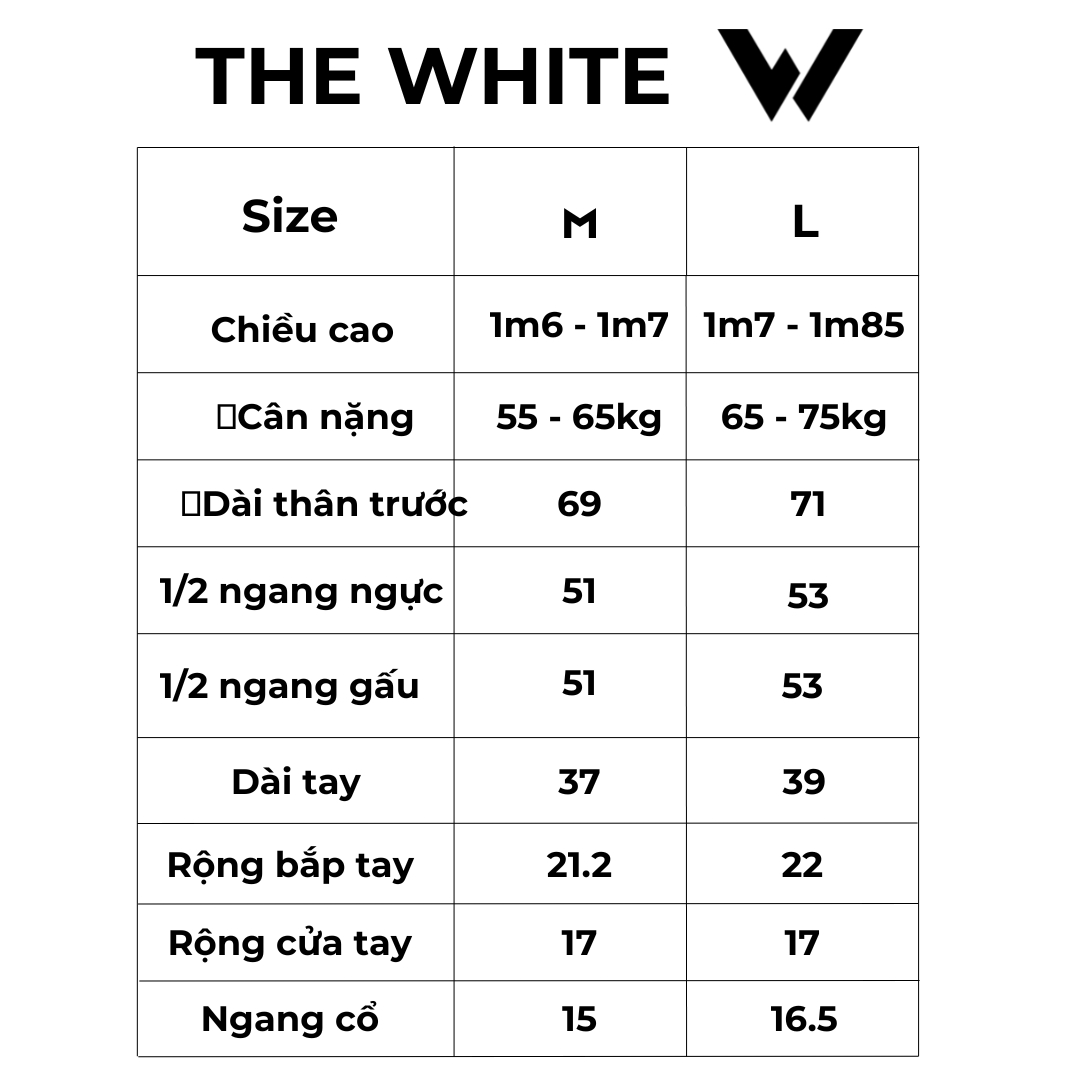
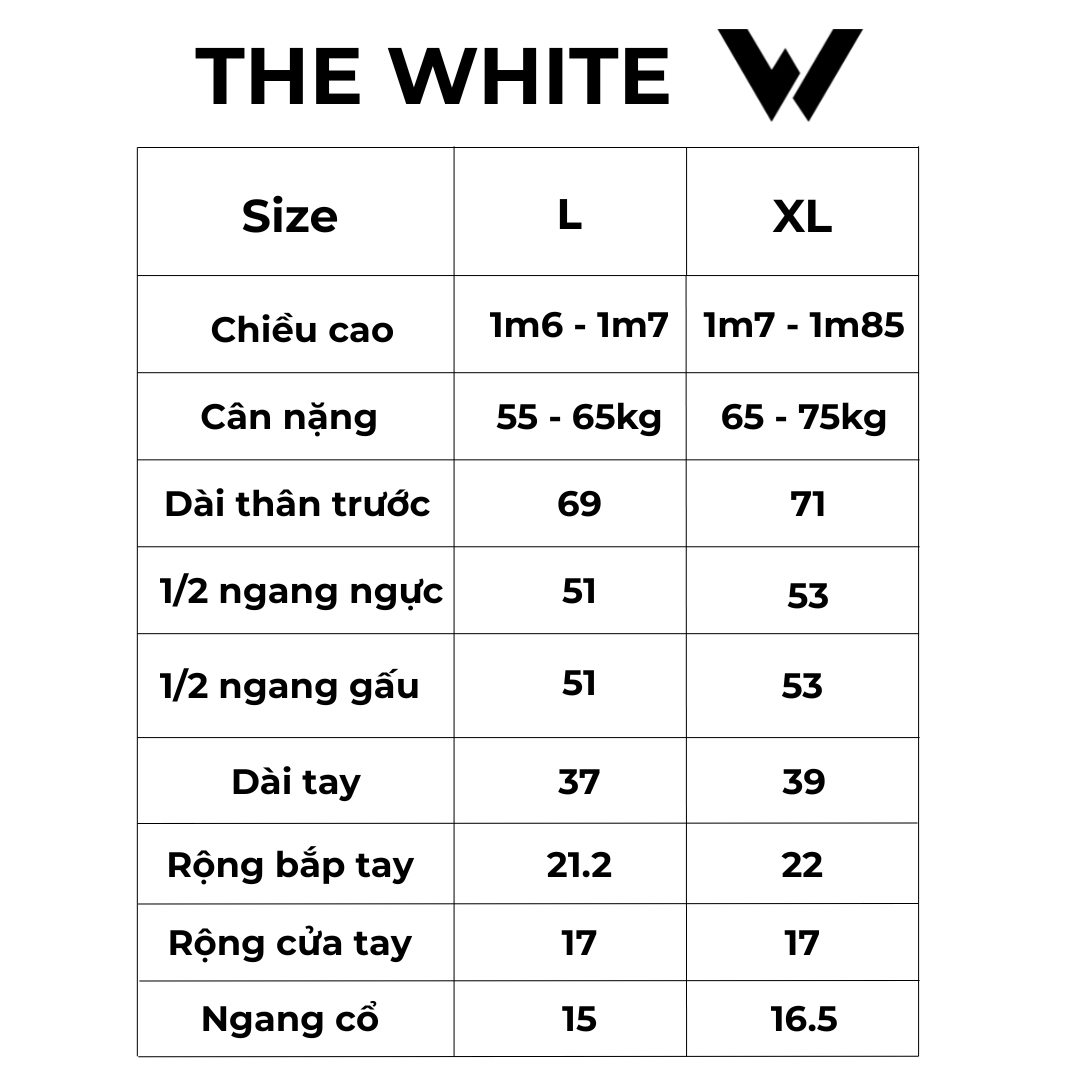
feat(sizing): real size chart measurements from Drive
Pulled 8 size-chart JPEGs from the brand's Drive folder and
extracted the actual flat-lay measurements into
ChatContext.sizeGuide (VI + EN) so the Wolfies chatbot + Smart
Size Picker give numeric answers from the real tables instead of
a placeholder paragraph.

- \`src/endpoints/seed/size-charts/\` now has all 8 product JPEGs
  (previously quan-2-lop.jpg → renamed to quan-short-2-lop.jpg to
  match the seed mapping).
- seed/size-charts.ts points at the corrected filename.
- seed/index.ts VI + EN sizeGuide defaults include per-product
  ranges: body length / chest / hem / neck for tops, inseam /
  waist / hip / thigh / leg-opening / hem for each short line,
  plus a height-based quick guide.
- Production ChatContext already patched via admin API so edits
  take effect without a re-seed.

NOTE to user: all four tops JPEGs (tank ho suon, tank sat nach,
thun tay dai, thun tay ngan) in Drive show the *same* table with
a sleeve-length (Dài tay) row, which only applies to long-sleeves.
Likely a copy-paste on the spreadsheet side — I used the shared
numbers for all tops. If you want unique rows per top line, send
corrected charts and I'll update sizeGuide.

diff --git a/src/endpoints/seed/index.ts b/src/endpoints/seed/index.ts
@@ -823,16 +823,33 @@ export const seed = async ({
           'THE WHITE là thương hiệu thời trang thể thao Việt Nam, thiết kế và may đo 100% tại Việt Nam. ' +
           'Chúng tôi tập trung vào chất liệu kỹ thuật, phom dáng tối giản, ôm nhẹ, phù hợp cho gym, chạy bộ, yoga và hoạt động hằng ngày.',
         sizeGuide:
-          'Tổng quan size (áo + quần):\n' +
-          '- Áo (Tanktop, Tay Ngắn, Tay Dài): thiết kế slim-fit, co giãn 4 chiều. Chỉ còn size XL — phù hợp chiều cao 1m70–1m85, cân nặng 62–82kg.\n' +
-          '- Quần Short 1 Lớp / Tính Năng / Vải Gân / 2 Lớp: size M (eo 72–80cm, hông 88–96cm, phù hợp 1m65–1m75) và size L (eo 80–88cm, hông 96–104cm, phù hợp 1m75–1m85).\n' +
+          'Bảng số đo chính thức THE WHITE (đo sản phẩm khi nằm phẳng, đơn vị cm, chiều cao cm/m, cân nặng kg). Với chất liệu Polyester + Spandex co giãn 4 chiều — giữa 2 size, chọn size nhỏ để ôm, size lớn để thoải mái.\n' +
+          '\n' +
+          '=== ÁO (Tanktop / Tay Ngắn / Tay Dài / Tank Hở Sườn) ===\n' +
+          'Chỉ còn size L và XL.\n' +
+          '- Size L: chiều cao 1m6–1m7, cân nặng 55–65 kg. Dài thân trước 69 · 1/2 ngang ngực 51 · 1/2 ngang gấu 51 · ngang cổ 15.\n' +
+          '- Size XL: chiều cao 1m7–1m85, cân nặng 65–75 kg. Dài thân trước 71 · 1/2 ngang ngực 53 · 1/2 ngang gấu 53 · ngang cổ 16.5.\n' +
+          '\n' +
+          '=== QUẦN VẢI GÂN ===\n' +
+          '- Size M: chiều cao 1m6–1m7, cân nặng 55–65 kg. Dài quần 45.5 · vòng eo 35.5 · vòng mông 18.5.\n' +
+          '- Size L: chiều cao 1m7–1m85, cân nặng 65–75 kg. Dài quần 47 · vòng eo 36.5 · vòng mông 19.\n' +
+          '\n' +
+          '=== QUẦN SHORT 2 LỚP ===\n' +
+          '- Size M: chiều cao 1m6–1m7, cân nặng 55–65 kg. Dài quần 38 · vòng eo 39.5 · vòng mông 30 · bo gấu 20.\n' +
+          '- Size L: chiều cao 1m7–1m85, cân nặng 65–75 kg. Dài quần 39.2 · vòng eo 39.5 · vòng mông 31.5 · bo gấu 20.5.\n' +
+          '\n' +
+          '=== QUẦN 1 LỚP TÚI CHÉO ===\n' +
+          '- Size M: chiều cao 1m6–1m7, cân nặng 55–65 kg. Dài quần 40 · vòng eo 68 · vòng mông 32.5.\n' +
+          '- Size L: chiều cao 1m7–1m85, cân nặng 65–75 kg. Dài quần 41.5 · vòng eo 72 · vòng mông 34.\n' +
+          '\n' +
+          '=== QUẦN 1 LỚP TÚI SAU (TÍNH NĂNG) ===\n' +
+          '- Size M: chiều cao 1m6–1m7, cân nặng 55–65 kg. Dài quần 43.5 · 1/2 eo 36 · vòng mông 53 · ngang đùi 34.5 · ngang ống 31.\n' +
+          '- Size L: chiều cao 1m7–1m85, cân nặng 65–75 kg. Dài quần 44.5 · 1/2 eo 38 · vòng mông 55 · ngang đùi 35.5 · ngang ống 32.\n' +
           '\n' +
           'Gợi ý nhanh theo chiều cao:\n' +
-          '- 1m65–1m72 (nhẹ): Áo XL thường hơi rộng, quần chọn size M.\n' +
-          '- 1m73–1m80: Áo XL vừa, quần M hoặc L tuỳ cân nặng (dưới 72kg → M, trên 72kg → L).\n' +
-          '- 1m81–1m88: Áo XL vừa/ôm, quần L.\n' +
-          '\n' +
-          'Lưu ý: chất liệu Polyester/Spandex co giãn — nếu giữa 2 size, chọn size nhỏ hơn để ôm body, chọn size lớn hơn để thoải mái.',
+          '- 1m65–1m72 / dưới 65 kg: áo XL (hơi rộng nhưng vẫn đẹp) · quần size M.\n' +
+          '- 1m73–1m80 / 65–72 kg: áo XL vừa · quần M hoặc L tuỳ cân (dưới 70 kg → M, trên 70 kg → L).\n' +
+          '- 1m81–1m88 / 72–80 kg: áo XL ôm · quần size L.',
         shippingPolicy:
           'Ship toàn quốc qua đơn vị vận chuyển. Phí ship cố định 30.000₫ (miễn phí khi áp mã giảm vận chuyển). Thời gian giao dự kiến: HCM/Hà Nội 1–2 ngày làm việc, các tỉnh khác 3–5 ngày.',
         returnPolicy:
@@ -861,16 +878,33 @@ export const seed = async ({
           'THE WHITE is a Vietnamese athletic / streetwear brand, designed and stitched 100% in Vietnam. ' +
           'We focus on technical fabrics and minimalist silhouettes for gym, running, yoga, and everyday wear.',
         sizeGuide:
-          'Size overview:\n' +
-          '- Tops (Tanktop, Short Sleeve, Long Sleeve): slim 4-way stretch fit. Currently only size XL — fits 170–185cm, 62–82kg.\n' +
-          '- Shorts (Single-layer / Functional / Knit / 2-layer): size M (waist 72–80cm, hip 88–96cm, for 165–175cm) and size L (waist 80–88cm, hip 96–104cm, for 175–185cm).\n' +
+          'THE WHITE official size chart (flat-lay garment measurements in cm; height and weight are customer body metrics). Fabric is Polyester + 4-way-stretch Spandex — between two sizes, pick down for a tighter fit or up for a relaxed one.\n' +
+          '\n' +
+          '=== TOPS (Tanktop / Short Sleeve / Long Sleeve / Open-side Tank) ===\n' +
+          'Only L and XL in stock.\n' +
+          '- L: height 160–170 cm, weight 55–65 kg. Body length 69 · 1/2 chest 51 · 1/2 hem 51 · neck 15.\n' +
+          '- XL: height 170–185 cm, weight 65–75 kg. Body length 71 · 1/2 chest 53 · 1/2 hem 53 · neck 16.5.\n' +
+          '\n' +
+          '=== KNIT (VẢI GÂN) PANTS ===\n' +
+          '- M: height 160–170 cm, weight 55–65 kg. Inseam 45.5 · waist 35.5 · hip 18.5.\n' +
+          '- L: height 170–185 cm, weight 65–75 kg. Inseam 47 · waist 36.5 · hip 19.\n' +
+          '\n' +
+          '=== 2-LAYER SHORTS ===\n' +
+          '- M: 160–170 cm, 55–65 kg. Inseam 38 · waist 39.5 · hip 30 · hem 20.\n' +
+          '- L: 170–185 cm, 65–75 kg. Inseam 39.2 · waist 39.5 · hip 31.5 · hem 20.5.\n' +
+          '\n' +
+          '=== 1-LAYER SIDE-POCKET SHORTS ===\n' +
+          '- M: 160–170 cm, 55–65 kg. Inseam 40 · waist 68 · hip 32.5.\n' +
+          '- L: 170–185 cm, 65–75 kg. Inseam 41.5 · waist 72 · hip 34.\n' +
+          '\n' +
+          '=== 1-LAYER BACK-POCKET (FUNCTIONAL) SHORTS ===\n' +
+          '- M: 160–170 cm, 55–65 kg. Inseam 43.5 · 1/2 waist 36 · hip 53 · thigh 34.5 · leg opening 31.\n' +
+          '- L: 170–185 cm, 65–75 kg. Inseam 44.5 · 1/2 waist 38 · hip 55 · thigh 35.5 · leg opening 32.\n' +
           '\n' +
           'Quick height guide:\n' +
-          '- 165–172cm (lean): XL top runs slightly loose, choose M shorts.\n' +
-          '- 173–180cm: XL top fits well, M or L shorts depending on weight (<72kg → M, >72kg → L).\n' +
-          '- 181–188cm: XL top fits snug, L shorts.\n' +
-          '\n' +
-          'Stretchy fabric — between two sizes, pick down for a tighter fit, up for a relaxed one.',
+          '- 165–172 cm / under 65 kg: XL top (slightly loose but still looks good) · M shorts.\n' +
+          '- 173–180 cm / 65–72 kg: XL top fits well · M or L shorts based on weight (<70 → M, >70 → L).\n' +
+          '- 181–188 cm / 72–80 kg: XL top snug · L shorts.',
         shippingPolicy:
           'Nationwide shipping via courier. Flat 30,000₫ fee (free with shipping-discount coupons). ETA: 1–2 business days to HCMC / Hanoi, 3–5 days to other provinces.',
         returnPolicy:

diff --git a/src/endpoints/seed/size-charts.ts b/src/endpoints/seed/size-charts.ts
@@ -47,7 +47,7 @@ export const sizeChartSeedData: SizeChartSeedData[] = [
     categoryTitle: 'Áo Thể Thao',
   },
   {
-    fileName: 'quan-2-lop.jpg',
+    fileName: 'quan-short-2-lop.jpg',
     titleVi: 'Bảng size — Quần Short 2 Lớp',
     titleEn: 'Size Chart — Double-Layer Shorts',
     altVi: 'Bảng hướng dẫn chọn size quần short 2 lớp',
